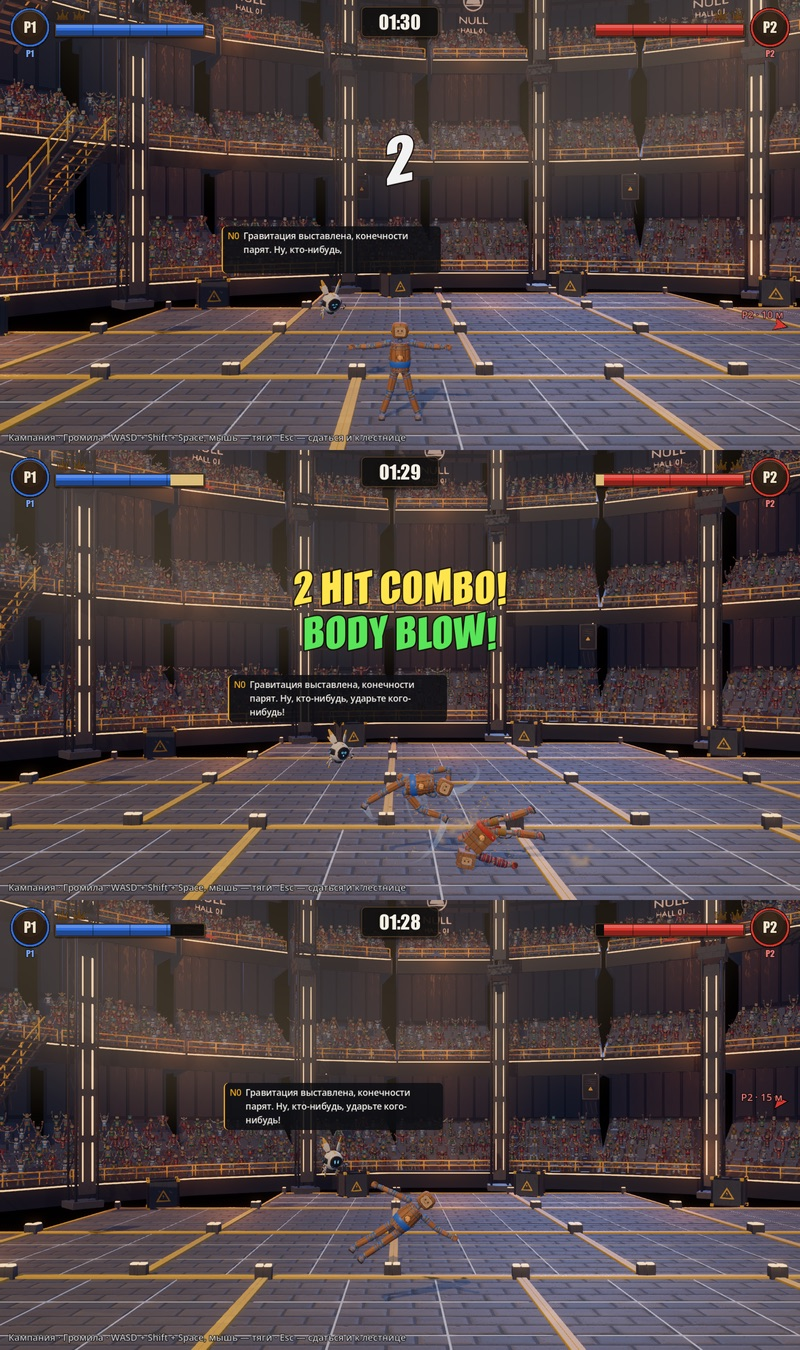
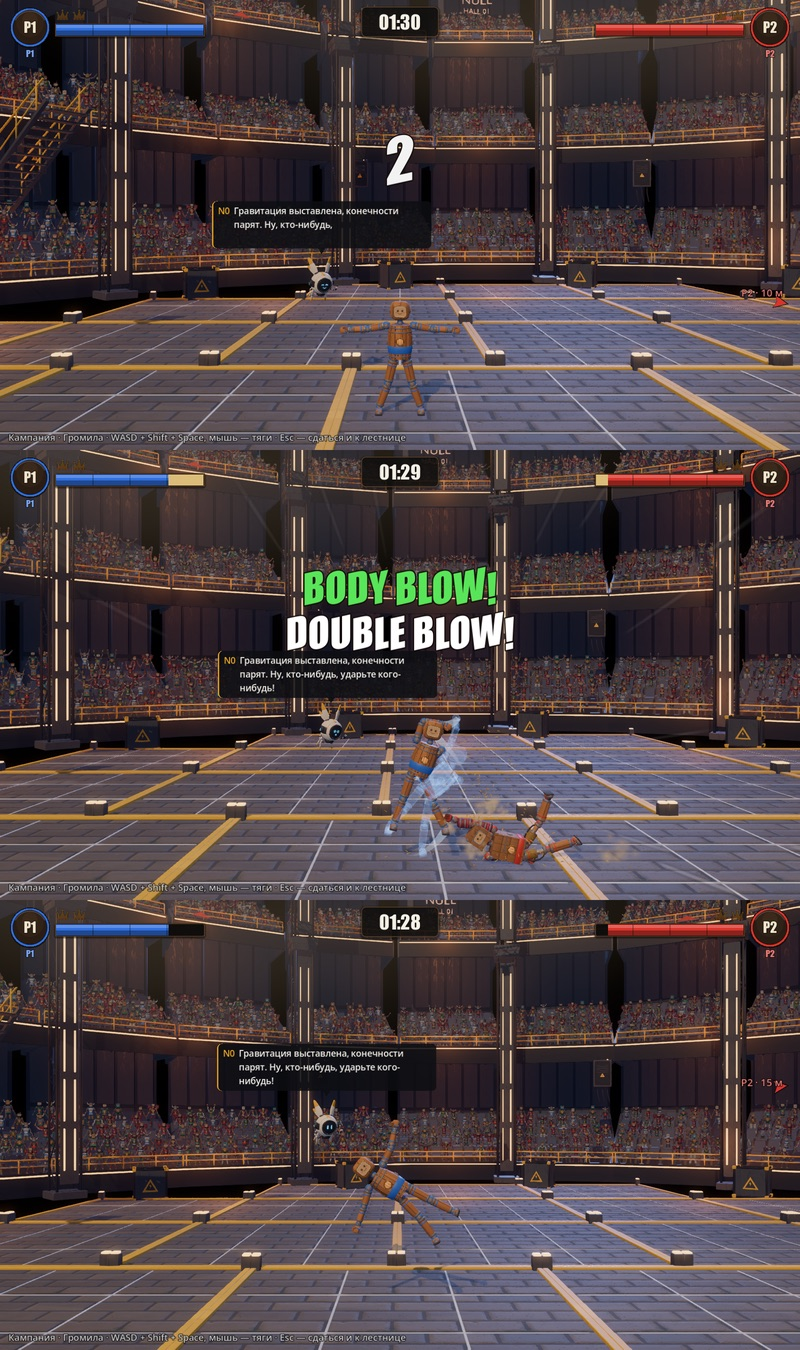
demo: камера купола ещё ближе — полувысота 3.6 м (кукла — четверть кадра)
Автор: «как будто немного ближе ещё». min_half_height 4.2 → 3.6 в Быстром бою и бою кампании (и в builder купола).
Пробы: n0_follow_probe 11/11 (полувысота 3.60–3.68, N0 в кадре 1200/1200), null_field_probe 9/9.
Docs: ответы автора в 14-n0.md, кадр n0-follow-v1.jpg, раздел «После 0.0.1» в RELEASE_0.0.1.md.

diff --git a/docs/plan-demo/14-n0.md b/docs/plan-demo/14-n0.md
@@ -47,7 +47,7 @@
 
 **Камера** (`scenes/camera/dynamic_camera.gd`, режим `follow_mode = "humans"`):
 - в кадре только игрок; бот-соперник камеру не тянет;
-- кукла занимает около 21 % высоты кадра, полувысота кадра 4.2 м (было 7.5–11 м);
+- кукла занимает около четверти высоты кадра, полувысота кадра 3.6 м (было 7.5–11 м; первая версия — 4.2 м, автор: «как будто немного ближе ещё»);
 - на быстром полёте кадр чуть отъезжает по упреждению, как раньше;
 - у мембраны кадр упирается в границы арены, игрок смещается к краю;
 - Быстрый бой вдвоём: второй человек попадает в кадр с первого нажатия своих клавиш, тогда кадр держит обоих (до 11 м);
@@ -91,7 +91,7 @@
 
 **Проверки:**
 - `tests/n0_follow_probe.tscn` (headless) — 11 из 11:
-  - камера держит только игрока, полувысота 4.20–4.24 м;
+  - камера держит только игрока, полувысота 3.60–3.68 м;
   - N0 рядом: в 95 % кадров не дальше 3.1 м, максимум 3.3 м;
   - N0 всегда за плоскостью боя;
   - сторона выбрана верно в 334 из 334 кадров;
@@ -110,8 +110,10 @@
 - бип-голос;
 - PvE-волны: N0 там нет, реплики `WaveDirector` не подключены.
 
-**Вопросы автору:**
-- расстояние камеры: 4.2 м полувысоты — ближе или дальше?
-- N0 — размер и сторона: за плечом со стороны без соперника подходит?
-- частота реплик: не болтлив ли он?
-- нужна ли стрелка к сопернику, когда тот в кадре, но далеко?
+**Ответы автора (02.10):**
+- камера — «немного ближе ещё»: полувысота 4.2 → 3.6 м;
+- N0 за плечом со стороны без соперника — «нормально»;
+- частота реплик — «ещё проверим»;
+- ветку слить в сборку и запушить — да.
+
+**Открыто:** нужна ли стрелка к сопернику, когда тот в кадре, но далеко.

diff --git a/docs/plan-demo/ART_NULL.md b/docs/plan-demo/ART_NULL.md
@@ -22,7 +22,7 @@
 1. **2.5D боковая камера.** Ориентация постоянная, без наклона, движение только в плоскости X/Y.
 2. **Показывает часть арены.** Арена значительно больше экрана, камера следует за игроками.
 3. **Читаемые бойцы.** Рост бойца — 8–12 % высоты экрана; простые контрастные силуэты.
-   - *Поправка автора 02.10.2026:* «камера слишком далеко; мне не важно видеть соперника, можно указать на него стрелкой и написать метры». В куполе камера теперь держит только игрока, боец — около 21 % высоты кадра (полувысота 4.2 м), соперник за кадром — стрелка правила 4. Итог — `14-n0.md`.
+   - *Поправка автора 02.10.2026:* «камера слишком далеко; мне не важно видеть соперника, можно указать на него стрелкой и написать метры». В куполе камера теперь держит только игрока, боец — около четверти высоты кадра (полувысота 3.6 м; сначала было 4.2 — автор: «ещё немного ближе»), соперник за кадром — стрелка правила 4. Итог — `14-n0.md`.
 4. **Оффскрин-индикаторы.** Если игрок далеко — стрелка у края экрана с расстоянием в метрах.
 5. **Эластичная граница** видна только вблизи и сильно растягивается при ударе.
 6. **Минимальный UI:** таймер, гравитация, индикаторы игроков, без лишнего текста.

diff --git a/docs/plan-demo/RELEASE_0.0.1.md b/docs/plan-demo/RELEASE_0.0.1.md
@@ -47,6 +47,14 @@
 5. **Мастерская:** удобство, активные блоки в бою.
 6. **Feel** боя на всех аренах.
 
+## После 0.0.1 (02.10.2026)
+
+В ветку сборки слита `claude/n0-follow-camera` — первый отзыв автора о куполе (`14-n0.md`, «Итог v1»):
+- камера в бою ближе (кукла — четверть кадра) и держит только игрока; соперник за кадром — стрелка «P2 · 15 м»;
+- N0 летает за плечом игрока и комментирует бой субтитрами в облачке.
+
+Версия в `project.godot` не менялась; сборка 0.0.1 как была — коммит `bc2274f`.
+
 ## Что собрано
 
 | Ветка | Сессия | Что принесла |
